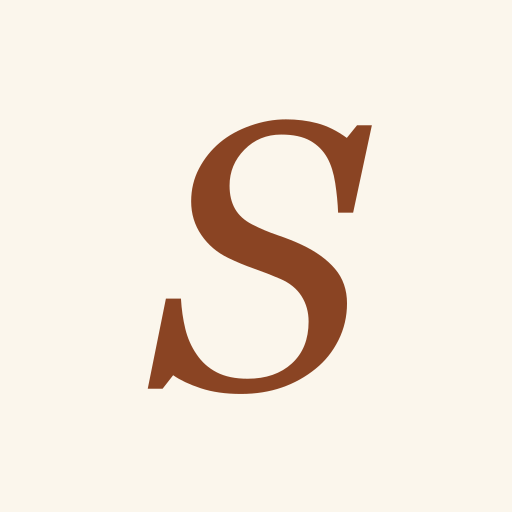
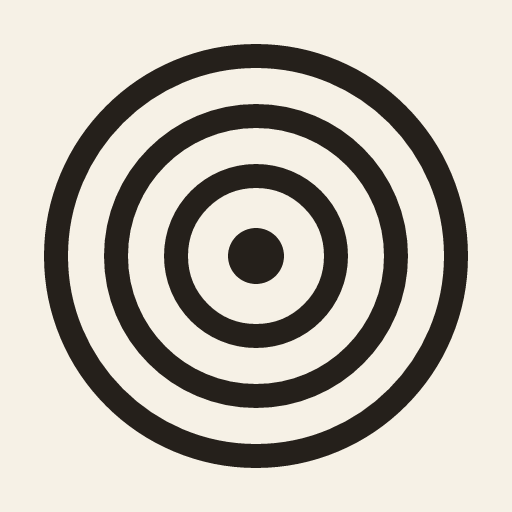
feat: replace placeholder brand images with the rings mark
social-card.png (OG fallback) and icon.png (favicon fallback / PWA
icon source) rendered from the mark via resvg on the site's cream.

diff --git a/docs/sessions/session-01-2026-07-11-template-personalization-and-cleanup.md b/docs/sessions/session-01-2026-07-11-template-personalization-and-cleanup.md
@@ -62,6 +62,10 @@ lessons, poetry, occasional tech — with everything promotional or unused strip
   self", writing-with-markdown says "this site" not "this template"). Built
   pages scan clean of template phrases. Only intentional Sienna mentions
   remain: the hidden footer credit and its config comment.
+- Replaced the template's placeholder brand images with the rings mark rendered
+  via resvg: `public/social-card.png` (1200×630 fallback OG image) and
+  `public/icon.png` (512px favicon fallback / PWA-icon source — webmanifest
+  regenerates apple-touch-icon and icon-192/512 from it at build).
 
 ## What remains
 
@@ -77,8 +81,7 @@ launching the journal publicly.
   entries; About page is a first draft in the journal's voice.
 - **Undecided**: post-page tags (kept for now, not clickable); ShareButtons on posts
   (kept — flagged as possibly "promotional"); repo folder is still named `hello`
-  locally; `public/social-card.png` (fallback OG image) is still the template's
-  placeholder artwork.
+  locally.
 
 ## Observations
 